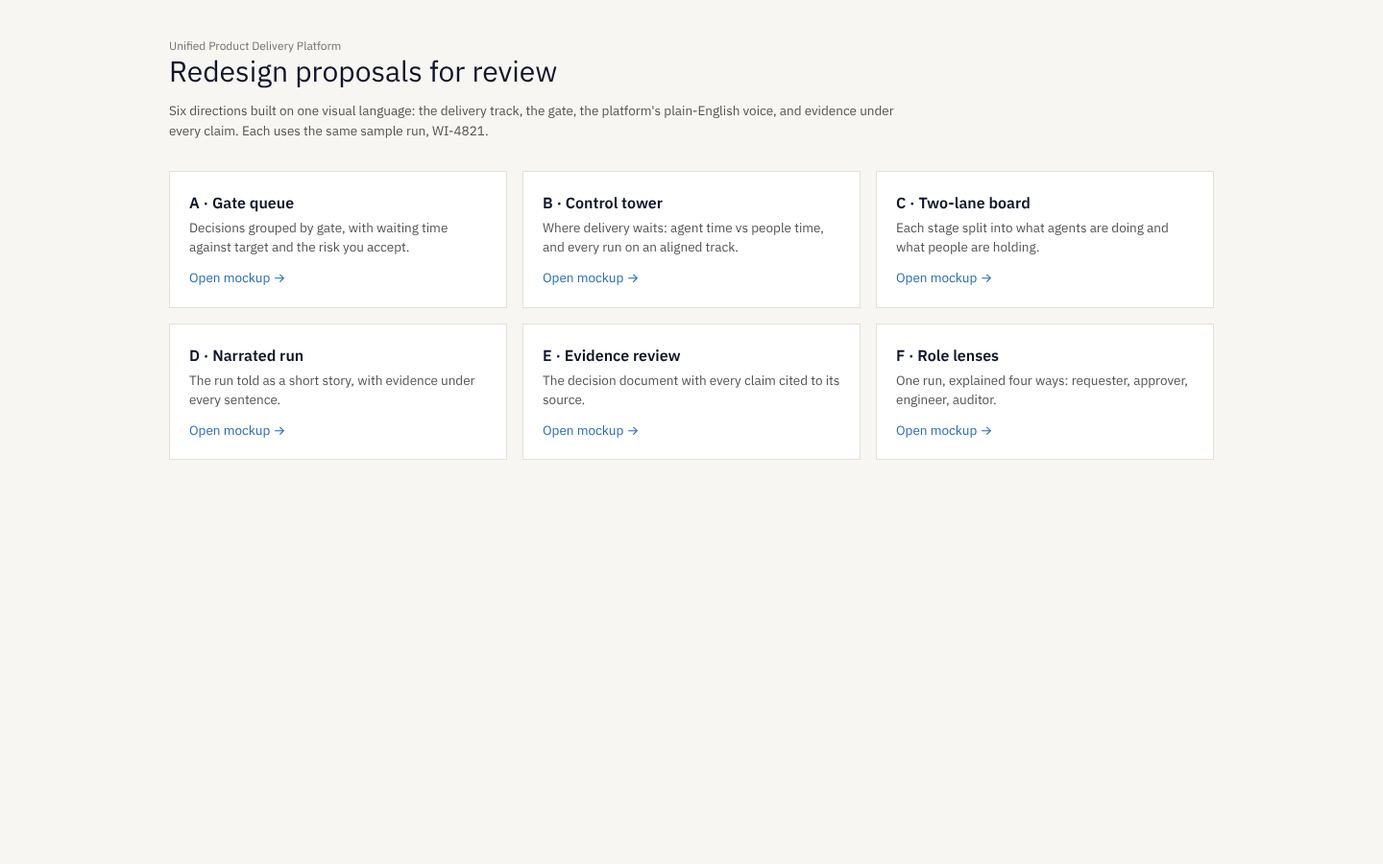
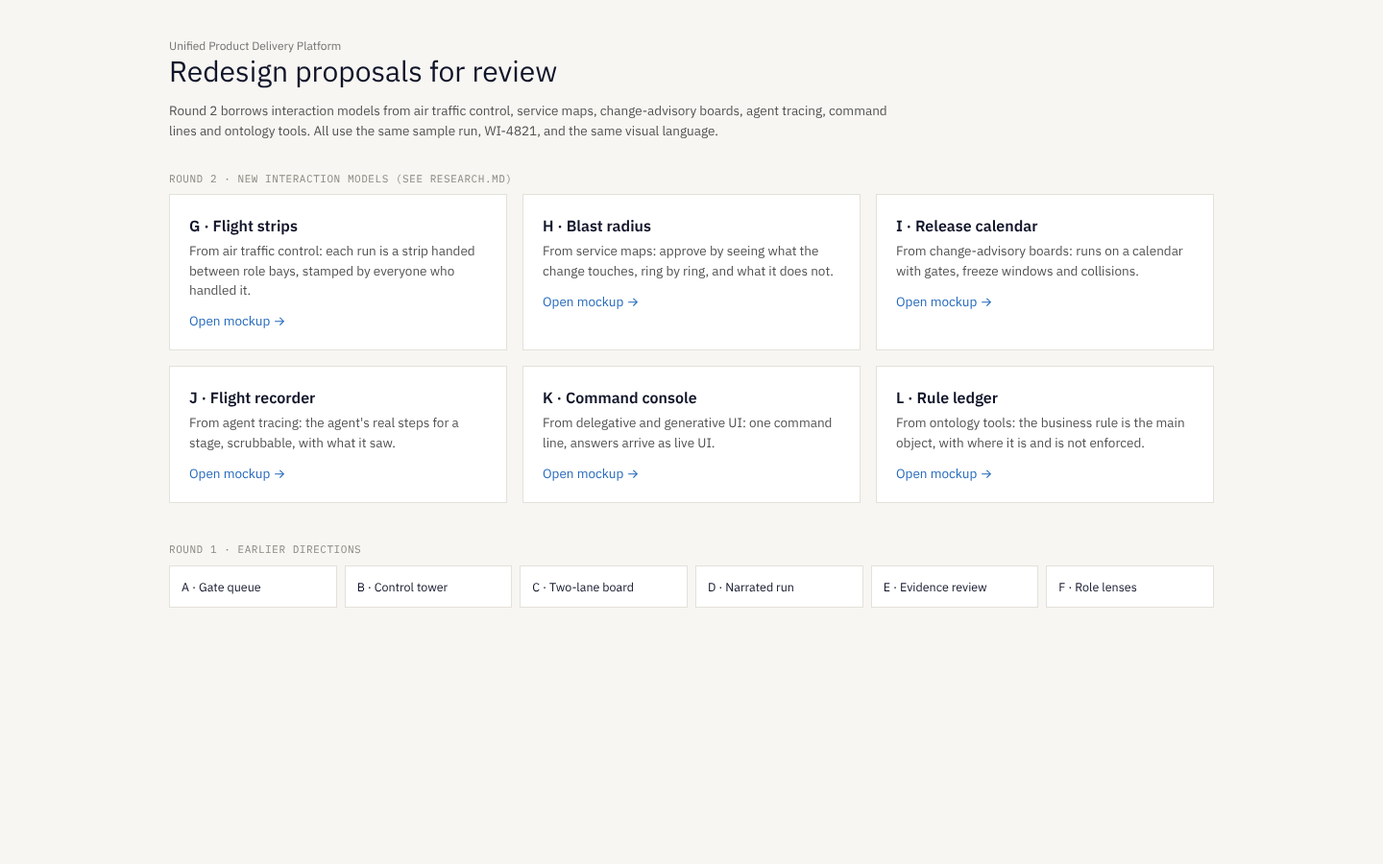
Add round 2 concepts from cross-industry research: strips, blast radius, release calendar, flight recorder, command console, rule ledger
Claude-Session: https://claude.ai/code/session_01M8VjWobWK2q9Jsgx3C2T2b

diff --git a/app/src/concepts2/ReleaseTrain.jsx b/app/src/concepts2/ReleaseTrain.jsx
@@ -1,0 +1,47 @@
+// I · Release train: runs on a calendar, gates as milestones, freeze windows and collisions.
+import { Button } from '@/components/ui/button';
+import { Shell } from '@/components/kit';
+import { GateGlyph } from '@/components/signature';
+import { cn } from '@/lib/utils';
+const DAYS = ['10','11','12','13','14','17','18','19','20','21','24','25','26','27','28','1','2','3','4','5'];
+const MON = i => i < 15 ? 'Nov' : 'Dec';
+const TODAY = 1;
+// [id, title, workspace, start, end, gates [[day, state, role]], bar colour, touches]
+const ROWS = [
+  ['WI-4821','Registered Amortization limit','Full Application',0,8,[[0,'passed','PO'],[1,'waiting','SA'],[4,'future','EL'],[6,'future','QL'],[8,'future','RM']],'validator'],
+  ['WI-4772','Fee schedule update','Full Application',-3,4,[[0,'passed','QL'],[3,'waiting','RM']],'validator'],
+  ['WI-4807','Advisor eligibility banner','Advisor Portal',-1,6,[[1,'waiting','EL'],[4,'future','QL'],[6,'future','RM']],''],
+  ['WI-4799','Statement export format','Client Services',0,12,[[1,'waiting','PO'],[5,'future','SA'],[12,'future','RM']],''],
+  ['WI-4790','Session timeout copy','Advisor Portal',-4,9,[[2,'future','QL'],[9,'future','RM']],'blocked'],
+  ['WI-4830','Advisor licence check','Advisor Portal',2,18,[[3,'future','SA'],[14,'future','RM']],'freeze'],
+];
+const COL = 52;
+export default function ReleaseTrain() {
+  return (
+    <Shell active="runs" title="Release calendar" actions={<Button variant="secondary">Export to CAB</Button>}>
+      <div className="flex flex-col gap-3 p-5">
+        <div className="flex gap-4 text-[12.5px] text-[#5d5c58]"><span className="flex items-center gap-1.5"><GateGlyph state="passed" className="size-3"/>gate passed</span><span className="flex items-center gap-1.5"><GateGlyph state="waiting" className="size-3"/>gate waiting</span><span className="flex items-center gap-1.5"><GateGlyph className="size-3"/>gate planned</span><span className="flex items-center gap-1.5"><span className="h-3 w-5 bg-[repeating-linear-gradient(45deg,#b42d38_0_2px,transparent_2px_6px)]"/>change freeze</span><span className="flex items-center gap-1.5"><span className="h-0.5 w-5 bg-red-700"/>collision</span></div>
+        <div className="overflow-x-auto border border-border bg-white">
+          <div className="relative" style={{ width: 260 + DAYS.length * COL }}>
+            <div className="sticky top-0 flex border-b border-border bg-[#efede6]"><div className="w-[260px] shrink-0 px-3 py-2 font-mono text-[11px] uppercase tracking-wider text-[#77756e]">Run</div>{DAYS.map((d,i)=><div key={i} style={{width:COL}} className={cn('shrink-0 border-l border-border py-1 text-center', i===TODAY && 'bg-brand text-white')}><div className="font-mono text-[10px] opacity-70">{MON(i)}</div><div className="font-semibold">{d}</div></div>)}</div>
+            <div className="pointer-events-none absolute top-0 bottom-0 bg-[repeating-linear-gradient(45deg,rgba(180,45,56,.12)_0_3px,transparent_3px_9px)]" style={{ left: 260 + 15*COL, width: 3*COL }}><span className="absolute top-12 left-1 bg-white px-1 text-[11px] font-semibold text-red-700">Month-end freeze</span></div>
+            <div className="pointer-events-none absolute top-0 bottom-0 w-0.5 bg-brand" style={{ left: 260 + TODAY*COL + COL/2 }}/>
+            {ROWS.map(([id,t,ws,s,e,g,flag])=>(
+              <div key={id} className="relative flex h-16 items-center border-b border-border">
+                <div className="w-[260px] shrink-0 px-3"><b className="block truncate font-semibold">{t}</b><span className="font-mono text-[11px] text-[#77756e]">{id} · {ws}</span></div>
+                <div className={cn('absolute h-2.5', flag==='blocked'?'bg-red-200':'bg-brand/25')} style={{ left: 260 + Math.max(s,0)*COL + 6, width: (e - Math.max(s,0))*COL }} />
+                {g.map(([d,st,r],i)=><span key={i} className="absolute flex flex-col items-center" style={{ left: 260 + d*COL + COL/2 - 10, top: 10 }}><GateGlyph state={st}/><span className={cn('font-mono text-[9.5px]', st==='waiting'?'font-semibold text-gate':'text-[#77756e]')}>{r}</span></span>)}
+                <span className="absolute font-mono text-[10.5px] text-[#5d5c58]" style={{ left: 260 + e*COL + COL - 4, top: 24 }}>▶ live</span>
+                {flag==='validator' && <span className="absolute left-[200px] top-1 bg-red-700 px-1 font-mono text-[10px] text-white">COLLISION</span>}
+                {flag==='freeze' && <span className="absolute bg-red-50 px-1.5 text-[11px] text-red-700" style={{ left: 260 + 15*COL + 4, top: 40 }}>release lands in freeze</span>}
+              </div>))}
+          </div>
+        </div>
+        <div className="grid grid-cols-2 gap-3">
+          <div className="border-l-4 border-red-700 bg-white p-3"><b>Collision:</b> WI-4772 and WI-4821 both change <span className="font-mono">amortizationValidator.js</span> this week. Release 4772 first, then rebase 4821.<div className="mt-2 flex gap-2"><Button size="sm">Sequence them</Button><Button size="sm" variant="ghost">View both diffs</Button></div></div>
+          <div className="border-l-4 border-gate bg-white p-3"><b>Freeze:</b> WI-4830 would release inside the month-end freeze (Dec 1–3). Earliest safe date: Dec 4.<div className="mt-2 flex gap-2"><Button size="sm" variant="outline">Move to Dec 4</Button><Button size="sm" variant="ghost">Request exception</Button></div></div>
+        </div>
+      </div>
+    </Shell>
+  );
+}

diff --git a/app/src/concepts2/RuleLedger.jsx b/app/src/concepts2/RuleLedger.jsx
@@ -1,0 +1,41 @@
+// L · Rule ledger: the business rule is the primary object, with where it is and is not enforced.
+import { Button } from '@/components/ui/button';
+import { Shell, Tag, Panel } from '@/components/kit';
+import { GateGlyph, Narration, Evidence } from '@/components/signature';
+import { Check, X, Minus } from 'lucide-react';
+const LAYERS = [
+  ['Product Selection form','Full Application UI','planned','WI-4821','In design'],
+  ['Shared amortization validator','Validation library','planned','WI-4821','In design'],
+  ['Pricing API','Server','no','—','No run covers this'],
+  ['Batch application import','Server','no','—','No run covers this'],
+  ['Advisor Portal quote tool','Advisor Portal','yes','WI-4511','Since Mar 2026'],
+  ['Product rules (source of truth)','Knowledge Fabric','yes','—','Documented, v4'],
+];
+const Ic = ({ s }) => s==='yes' ? <span className="grid size-5 place-items-center bg-done text-white"><Check className="size-3.5"/></span> : s==='no' ? <span className="grid size-5 place-items-center bg-red-700 text-white"><X className="size-3.5"/></span> : <span className="grid size-5 place-items-center border-2 border-gate text-gate"><Minus className="size-3"/></span>;
+export default function RuleLedger() {
+  return (
+    <Shell active="docs" title="Rules">
+      <div className="grid grid-cols-[240px_1fr]">
+        <nav className="border-r border-border bg-[#f1efe9] py-3" aria-label="Rules">
+          <div className="px-4 pb-1 font-mono text-[11px] uppercase tracking-wider text-[#8a887f]">Full Application · 48 rules</div>
+          {[['RA-MAX','Registered Amortization ≤ 310','part'],['RA-MIN','Amortization ≥ 5 years','yes'],['FEE-07','Fee table v7','yes'],['RATE-H','Rate hold ≤ 120 days','part'],['KYC-02','Two IDs before approval','yes'],['ADDR-1','Address change audited','no']].map(([id,t,s],i)=><a key={id} href="#" className={`flex items-center gap-2 px-4 py-2 ${i===0?'bg-white shadow-[inset_3px_0_0_var(--brand)]':''}`}><span className={`size-2 ${s==='yes'?'bg-done':s==='no'?'bg-red-700':'bg-gate'}`}/><span className="min-w-0"><span className="block font-mono text-[11px] text-[#77756e]">{id}</span><span className="block truncate text-[12.5px]">{t}</span></span></a>)}
+        </nav>
+        <section className="space-y-5 p-6">
+          <div className="flex items-start gap-4">
+            <div className="flex-1"><div className="font-mono text-[11px] uppercase tracking-wider text-[#8a887f]">Business rule · RA-MAX · owner Priya N.</div><h2 className="text-[26px] font-medium tracking-tight">Registered Amortization must be ≤ 310</h2></div>
+            <div className="border border-gate bg-gate-soft px-4 py-2 text-right"><div className="font-mono text-[11px] uppercase text-gate">Enforcement</div><div className="text-xl font-light">2 of 6 layers</div><div className="text-[12px] text-[#5d5c58]">2 more in progress</div></div>
+          </div>
+          <Narration>This rule is documented and enforced in the Advisor Portal. Run <b>WI-4821</b> will add it to the Full Application form. <span className="bg-red-50">Nothing yet stops the Pricing API or batch imports from accepting larger values.</span></Narration>
+          <Panel title="Where the rule is enforced">
+            <table className="w-full text-[13px]"><thead><tr className="border-b border-border text-left font-mono text-[11px] uppercase tracking-wider text-[#8a887f]"><th className="px-4 py-2 font-normal"></th><th className="font-normal">Layer</th><th className="font-normal">System</th><th className="font-normal">Run</th><th className="font-normal">Status</th><th/></tr></thead>
+            <tbody>{LAYERS.map(([l,s,st,r,n])=><tr key={l} className="border-b border-border last:border-0"><td className="px-4 py-2.5"><Ic s={st}/></td><td className="font-semibold">{l}</td><td className="text-[#5d5c58]">{s}</td><td className="font-mono text-[12px] text-brand">{r}</td><td className={st==='no'?'text-red-700':'text-[#5d5c58]'}>{n}</td><td className="pr-4 text-right">{st==='no' && <Button size="sm" variant="outline">Start run to close</Button>}</td></tr>)}</tbody></table>
+          </Panel>
+          <div className="grid grid-cols-2 gap-5">
+            <Panel title="History of this rule"><ol className="space-y-2.5 p-4 text-[12.5px]">{[['Nov 11','WI-4821 opened: enforce in Full Application form','waiting'],['Mar 2026','WI-4511 released: Advisor Portal quote tool','passed'],['Jan 2026','Rule raised from 300 to 310 (product rules v4)','passed'],['Aug 2025','Rule created by Product (v1)','passed']].map(([d,t,s])=><li key={d} className="grid grid-cols-[70px_16px_1fr] gap-2"><span className="font-mono text-[#8a887f]">{d}</span><GateGlyph state={s} className="size-3.5"/><span>{t}</span></li>)}</ol></Panel>
+            <Panel title="Related rules"><ul className="divide-y divide-border px-4 text-[12.5px]">{[['RA-MIN','Amortization ≥ 5 years','ok','enforced'],['RATE-H','Rate hold ≤ 120 days','warn','partial'],['PRD-SEL','Product eligibility by province','ok','enforced']].map(([a,b,t,s])=><li key={a} className="flex items-center justify-between py-2"><span><span className="font-mono text-[11px] text-[#77756e]">{a}</span> {b}</span><Tag tone={t}>{s}</Tag></li>)}</ul><Evidence className="mx-4 mb-3" items={['Knowledge Fabric v4','3 repositories scanned']}/></Panel>
+          </div>
+        </section>
+      </div>
+    </Shell>
+  );
+}

diff --git a/app/src/concepts2/FlightStrips.jsx b/app/src/concepts2/FlightStrips.jsx
@@ -1,0 +1,45 @@
+// G · Flight strips: each run is a strip handed between role bays. Stamps record who handled it.
+import { Button } from '@/components/ui/button';
+import { Shell } from '@/components/kit';
+import { GateGlyph } from '@/components/signature';
+import { cn } from '@/lib/utils';
+const WS = { FA:'#2469bc', AP:'#7a4fb5', CS:'#2f7d4f' };
+const BAYS = [
+  ['Product Owner', [{ id:'4799', ws:'CS', t:'Statement export format', rule:'CSV column order', st:'Specify', inbay:'1h', stamps:['RQ'], q:'2 questions' }]],
+  ['Solution Architect', [{ id:'4821', ws:'FA', t:'Registered Amortization limit', rule:'RA ≤ 310', st:'Design', inbay:'12m', stamps:['RQ','PO','PO'], mine:true, q:'Accept API gap?' }, { id:'4830', ws:'AP', t:'Advisor licence check', rule:'Licence active', st:'Design', inbay:'—', stamps:['RQ','PO'], next:true }]],
+  ['Engineering Lead', [{ id:'4807', ws:'AP', t:'Advisor eligibility banner', rule:'Eligibility ≥ 18', st:'Build', inbay:'3h', stamps:['RQ','PO','PO','SA'], q:'Completion report' }]],
+  ['Quality Lead', [{ id:'4790', ws:'AP', t:'Session timeout copy', rule:'Timeout 15 min', st:'Validate', inbay:'40m', stamps:['RQ','PO','PO','SA','EL','IL'], alert:'2 tests failed' }]],
+  ['Release Manager', [{ id:'4772', ws:'FA', t:'Fee schedule update', rule:'Fee table v7', st:'Release', inbay:'5h', stamps:['RQ','PO','PO','SA','EL','IL','QL'], q:'UAT sign-off' }]],
+];
+const AGENTS = [['4812','FA','Rate hold expiry','Build · writing tests'],['4815','CS','Address change audit','Impact · searching sources'],['4818','AP','Fund facts PDF link','Plan · drafting stories']];
+function Strip({ s }) {
+  return (
+    <article className={cn('grid grid-cols-[8px_74px_1fr_92px_118px] border bg-white text-[12.5px]', s.mine ? 'border-gate ring-2 ring-gate/30' : 'border-[#cfccc3]', s.next && 'opacity-60')}>
+      <span style={{ background: WS[s.ws] }} />
+      <div className="border-r border-dashed border-[#cfccc3] px-2 py-1.5"><div className="font-mono text-[15px] font-semibold leading-none">{s.id}</div><div className="mt-1 font-mono text-[10.5px] text-[#77756e]">{s.ws} · {s.st}</div></div>
+      <div className="min-w-0 border-r border-dashed border-[#cfccc3] px-2 py-1.5"><b className="block truncate font-semibold">{s.t}</b><div className="truncate font-mono text-[11px] text-[#5d5c58]">rule: {s.rule}</div></div>
+      <div className="border-r border-dashed border-[#cfccc3] px-2 py-1.5"><div className="font-mono text-[10.5px] text-[#77756e]">IN BAY</div><div className={cn('font-mono', s.alert && 'text-red-700')}>{s.alert || s.q || s.inbay}</div></div>
+      <div className="flex flex-wrap content-center gap-0.5 px-1.5">{s.stamps.map((x,i)=><span key={i} className="grid h-4 w-6 place-items-center border border-done font-mono text-[9.5px] text-done">{x}</span>)}{s.next && <span className="font-mono text-[10px] text-[#77756e]">inbound</span>}</div>
+    </article>
+  );
+}
+export default function FlightStrips() {
+  return (
+    <Shell active="runs" title="Strip board" actions={<Button>New strip</Button>}>
+      <div className="flex flex-col gap-4 p-5">
+        <section className="border border-dashed border-brand/50 bg-brand-soft/50 p-3">
+          <div className="mb-2 flex items-center gap-2 font-mono text-[11px] uppercase tracking-wider text-brand">Agents in flight · 3 <span className="normal-case tracking-normal text-[#5d5c58]">· strips land in a bay when a gate is reached</span></div>
+          <div className="grid grid-cols-3 gap-2">{AGENTS.map(([id,ws,t,s])=><div key={id} className="flex items-center gap-2 border border-brand/30 bg-white px-2 py-1.5"><span className="h-6 w-1.5" style={{background:WS[ws]}}/><span className="font-mono font-semibold">{id}</span><span className="truncate">{t}</span><span className="ml-auto flex items-center gap-1 text-[11.5px] text-brand"><span className="size-1.5 animate-pulse rounded-full bg-brand"/>{s}</span></div>)}</div>
+        </section>
+        <div className="grid grid-cols-2 gap-4">
+          {BAYS.map(([role, strips])=>(
+            <section key={role} className={cn('border bg-[#efede6]', role==='Solution Architect' ? 'col-span-2 border-gate' : 'border-border')}>
+              <header className="flex items-center gap-2 border-b border-border px-3 py-2"><GateGlyph state={strips.length ? 'waiting' : 'future'} className="size-3.5"/><b className="font-semibold">{role} bay</b>{role==='Solution Architect' && <span className="bg-gate px-1.5 text-[11px] font-semibold text-white">YOUR BAY</span>}<span className="ml-auto font-mono text-[11px] text-[#77756e]">{strips.filter(s=>!s.next).length} holding</span></header>
+              <div className="space-y-1.5 p-2">{strips.map(s=><Strip key={s.id} s={s}/>)}</div>
+              {role==='Solution Architect' && <div className="flex items-center gap-2 border-t border-border px-3 py-2"><Button size="sm">Approve 4821 → Engineering Lead bay</Button><Button size="sm" variant="outline">Hand back to Product Owner</Button><span className="ml-auto text-[12px] text-[#77756e]">Stamps: RQ requester · PO product owner · SA architect · EL eng lead · IL integration · QL quality</span></div>}
+            </section>))}
+        </div>
+      </div>
+    </Shell>
+  );
+}

diff --git a/app/src/concepts2/BlastRadius.jsx b/app/src/concepts2/BlastRadius.jsx
@@ -1,0 +1,39 @@
+// H · Blast radius: approve by seeing what the change touches, ring by ring, and what it does not.
+import { Button } from '@/components/ui/button';
+import { Shell, Panel } from '@/components/kit';
+import { Track, GateGlyph, Evidence } from '@/components/signature';
+const R1 = [['ProductSelection.jsx','edit'],['amortizationValidator.js','edit'],['messages.en.json','add'],['selection.test.js','add'],['validator.test.js','edit']];
+const R2 = [['Full Application UI','touched'],['Product Selection flow','touched'],['Shared validation lib','touched']];
+const R3 = [['Pricing API','untouched'],['Advisor Portal','untouched'],['Client Services','untouched'],['Batch import','untouched']];
+const pos = (i, n, r, off = 0) => { const a = (i / n) * Math.PI * 2 + off - Math.PI / 2; return [380 + r * Math.cos(a), 300 + r * Math.sin(a)]; };
+export default function BlastRadius() {
+  return (
+    <Shell active="runs" title="Impact review · WI-4821">
+      <div className="border-b border-border bg-white px-6 py-3"><Track s="dddw"/></div>
+      <div className="grid flex-1 grid-cols-[1fr_380px]">
+        <figure className="relative m-0 overflow-hidden" aria-label="Change impact map">
+          <svg viewBox="0 0 760 600" className="h-full max-h-[calc(100vh-130px)] w-full">
+            {[125,215,288].map((r,i)=><circle key={r} cx="380" cy="300" r={r} fill="none" stroke={i===2?'#cfccc3':'#dedbd2'} strokeDasharray={i===2?'4 5':''}/>)}
+            {[['Files changed',125],['Areas touched',215],['Not changed',288]].map(([l,r])=><text key={l} x="380" y={300-r+14} textAnchor="middle" className="fill-[#8a887f] font-mono text-[10px] uppercase tracking-wider">{l}</text>)}
+            {R1.map((n,i)=>{const[x,y]=pos(i,R1.length,125,.63);return <line key={n[0]} x1="380" y1="300" x2={x} y2={y} stroke="#2469bc" strokeOpacity=".35"/>})}
+            {R2.map((n,i)=>{const[x,y]=pos(i,R2.length,215,1.1);const[a,b]=pos(i,R1.length,125,.63);return <line key={n[0]} x1={a} y1={b} x2={x} y2={y} stroke="#b7791f" strokeOpacity=".4"/>})}
+            <g><rect x="335" y="280" width="90" height="40" fill="#101429"/><text x="380" y="297" textAnchor="middle" className="fill-white text-[12px] font-semibold">RA ≤ 310</text><text x="380" y="312" textAnchor="middle" className="fill-white/60 font-mono text-[9.5px]">business rule</text></g>
+            {R1.map((n,i)=>{const[x,y]=pos(i,R1.length,125,.63);return <g key={n[0]}><circle cx={x} cy={y} r="6" fill="#2469bc"/><text x={x} y={y+18} textAnchor="middle" className="fill-[#101429] font-mono text-[10.5px]">{n[0]}</text><text x={x} y={y-10} textAnchor="middle" className="fill-[#2469bc] font-mono text-[9px] uppercase">{n[1]}</text></g>})}
+            {R2.map((n,i)=>{const[x,y]=pos(i,R2.length,215,1.1);return <g key={n[0]}><rect x={x-6} y={y-6} width="12" height="12" fill="#b7791f"/><text x={x} y={y+20} textAnchor="middle" className="fill-[#101429] text-[11.5px] font-semibold">{n[0]}</text></g>})}
+            {R3.map((n,i)=>{const[x,y]=pos(i,R3.length,288,.75);return <g key={n[0]}><rect x={x-6} y={y-6} width="12" height="12" fill="#f7f6f2" stroke="#9a978e" strokeDasharray="2 2"/><text x={x} y={y+20} textAnchor="middle" className="fill-[#77756e] text-[11.5px]">{n[0]}</text></g>})}
+            <g><line x1="380" y1="300" x2={pos(0,4,288,.75)[0]} y2={pos(0,4,288,.75)[1]} stroke="#b42d38" strokeDasharray="3 4"/></g>
+          </svg>
+          <figcaption className="absolute top-4 left-6 max-w-sm border-l-4 border-red-700 bg-white p-3 text-[12.5px]"><b>Gap:</b> the rule also applies to the <b>Pricing API</b>, but this change does not reach it. Direct API calls can still submit values above 310.</figcaption>
+        </figure>
+        <aside className="flex flex-col gap-4 border-l border-border bg-white p-5">
+          <div className="flex items-center gap-2"><GateGlyph state="waiting"/><b className="font-semibold">Solution Architect gate</b></div>
+          <div className="grid grid-cols-3 border border-border text-center">{[['5','files'],['3','areas'],['4','untouched']].map(([n,l])=><div key={l} className="border-r border-border p-2 last:border-0"><div className="text-2xl font-light">{n}</div><div className="text-[12px] text-[#77756e]">{l}</div></div>)}</div>
+          <Panel title="Changes"><ul className="space-y-1 p-3 text-[12.5px]"><li>Product Selection blocks values above 310</li><li>Shared validator gains a maximum</li><li>1 new message string, 2 test files</li></ul></Panel>
+          <Panel title="Does not change"><ul className="space-y-1 p-3 text-[12.5px] text-[#5d5c58]"><li>Pricing API validation <span className="text-red-700">(gap)</span></li><li>Advisor Portal, Client Services</li><li>Batch import of applications</li></ul></Panel>
+          <Evidence items={['Impact scan of 1 repo','Baseline build green','Call graph depth 3']}/>
+          <div className="mt-auto flex flex-col gap-2"><Button>Approve with API gap accepted</Button><Button variant="outline">Widen scope to include API</Button></div>
+        </aside>
+      </div>
+    </Shell>
+  );
+}

diff --git a/app/src/concepts2/FlightRecorder.jsx b/app/src/concepts2/FlightRecorder.jsx
@@ -1,0 +1,51 @@
+// J · Flight recorder: the agent's real trace for a stage, scrubbable, with what it saw at each moment.
+import { Shell, Tag } from '@/components/kit';
+import { Track, Evidence } from '@/components/signature';
+import { cn } from '@/lib/utils';
+const T = 14; // minutes
+const SPANS = [
+  [0,'Find the right knowledge',0,3.2,'search','Knowledge Fabric · 14 queries'],
+  [1,'Search product rules',0.2,1.4,'tool','12 hits · 4 kept'],
+  [1,'Search previous ADRs',1.5,2.9,'tool','ADR-0151 reused'],
+  [0,'Check the information',3.2,4.6,'check','3 facts verified'],
+  [0,'Prepare the result',4.6,9.1,'llm','ADR draft · 2,140 tokens'],
+  [0,'Review quality',9.1,10.4,'check','1 issue: AC-3 not referenced'],
+  [0,'Correct issues',10.4,12.2,'fix','Added AC-3 link · re-checked'],
+  [0,'Save evidence',12.2,13.1,'save','adr-0173.md · hash 9f2c…'],
+  [0,'Prepare next step',13.1,13.8,'save','Gate opened for Solution Architect'],
+];
+const C = { search:'bg-brand/70', tool:'bg-brand/40', check:'bg-done/70', llm:'bg-ink/80', fix:'bg-gate', save:'bg-[#8a887f]' };
+const AT = 10.9;
+export default function FlightRecorder() {
+  return (
+    <Shell active="runs" title="Flight recorder · WI-4821">
+      <div className="border-b border-border bg-white px-6 py-3"><Track s="dddw"/></div>
+      <div className="flex items-center gap-2 border-b border-border bg-white px-6 py-2">{['Plan','Specify','Impact','Design'].map((s,i)=><button key={s} className={cn('px-3 py-1', i===3 ? 'bg-ink text-white' : 'text-[#5d5c58] hover:bg-black/5')}>{s}</button>)}<span className="ml-auto font-mono text-[12px] text-[#5d5c58]">Design · 13m 48s · 9 steps · 6,410 tokens · $0.21 · 1 self-correction</span></div>
+      <div className="grid flex-1 grid-cols-[1fr_380px]">
+        <section className="p-6">
+          <div className="relative ml-[220px] mb-2 flex justify-between font-mono text-[10.5px] text-[#8a887f]">{[0,2,4,6,8,10,12,14].map(m=><span key={m}>{m}m</span>)}</div>
+          <div className="relative">
+            {SPANS.map(([d,l,s,e,k,note],i)=>(
+              <div key={i} className="flex h-9 items-center border-b border-border/60">
+                <div className="w-[220px] shrink-0 truncate pr-2 text-[12.5px]" style={{ paddingLeft: d*18 }}>{d ? '└ ' : ''}{l}</div>
+                <div className="relative h-full flex-1"><span className={cn('absolute top-2.5 h-4', C[k])} style={{ left: (s/T*100)+'%', width: ((e-s)/T*100)+'%' }}/><span className={cn('absolute top-2.5 whitespace-nowrap font-mono text-[10.5px] text-[#5d5c58]', e/T > .6 ? 'pr-1 text-right' : 'pl-1')} style={e/T > .6 ? { right: (100 - s/T*100)+'%' } : { left: (e/T*100)+'%' }}>{note}</span></div>
+              </div>))}
+            <div className="pointer-events-none absolute top-[-28px] bottom-0 w-0.5 bg-red-700" style={{ left: `calc(220px + (100% - 220px) * ${AT/T})` }}><span className="absolute -top-1 left-1 bg-red-700 px-1 font-mono text-[10px] text-white">10:54</span></div>
+          </div>
+          <input type="range" min="0" max="14" step="0.1" defaultValue={AT} aria-label="Scrub trace" className="mt-4 ml-[220px] w-[calc(100%-220px)] accent-[#b42d38]"/>
+          <p className="mt-3 font-serif text-[15px] italic text-[#5d5c58]">The 7-step checklist from the current console, replaced by what the agent actually did and for how long.</p>
+        </section>
+        <aside className="space-y-4 border-l border-border bg-white p-5">
+          <div><div className="font-mono text-[11px] uppercase tracking-wider text-[#8a887f]">At 10m 54s</div><b className="text-[15px]">Correct issues</b> <Tag tone="warn">self-correction</Tag></div>
+          <div><div className="mb-1 font-mono text-[11px] uppercase tracking-wider text-[#8a887f]">What the agent saw</div><pre className="whitespace-pre-wrap border border-border bg-paper p-3 font-mono text-[11.5px] leading-5">{`quality_review:
+  result: fail
+  rule: every decision cites an acceptance criterion
+  missing: AC-3 (block above max, show reason)`}</pre></div>
+          <div><div className="mb-1 font-mono text-[11px] uppercase tracking-wider text-[#8a887f]">What it did</div><p className="font-serif text-[15px]">Added the AC-3 reference to the Decision section and ran the quality review again. It passed at 12m 10s.</p></div>
+          <Evidence items={['spec-v3 · AC-3','Quality rule QR-12','Diff +2 lines']}/>
+          <div className="flex gap-2 pt-2"><button className="border border-border px-3 py-1.5 hover:bg-paper">Show prompt</button><button className="border border-border px-3 py-1.5 hover:bg-paper">Show raw output</button></div>
+        </aside>
+      </div>
+    </Shell>
+  );
+}

diff --git a/app/src/App.jsx b/app/src/App.jsx
@@ -6,6 +6,21 @@ import Timeline from '@/concepts/Timeline';
 import Workbench from '@/concepts/Workbench';
 import RoleLenses from '@/concepts/RoleLenses';
 import SplitText from '@/components/SplitText';
+import FlightStrips from '@/concepts2/FlightStrips';
+import BlastRadius from '@/concepts2/BlastRadius';
+import ReleaseTrain from '@/concepts2/ReleaseTrain';
+import FlightRecorder from '@/concepts2/FlightRecorder';
+import CommandConsole from '@/concepts2/CommandConsole';
+import RuleLedger from '@/concepts2/RuleLedger';
+
+export const ROUND2 = [
+  ['strips','G · Flight strips','From air traffic control: each run is a strip handed between role bays, stamped by everyone who handled it.',FlightStrips],
+  ['radius','H · Blast radius','From service maps: approve by seeing what the change touches, ring by ring, and what it does not.',BlastRadius],
+  ['train','I · Release calendar','From change-advisory boards: runs on a calendar with gates, freeze windows and collisions.',ReleaseTrain],
+  ['recorder','J · Flight recorder','From agent tracing: the agent\'s real steps for a stage, scrubbable, with what it saw.',FlightRecorder],
+  ['console','K · Command console','From delegative and generative UI: one command line, answers arrive as live UI.',CommandConsole],
+  ['rules','L · Rule ledger','From ontology tools: the business rule is the main object, with where it is and is not enforced.',RuleLedger],
+];
 
 export const CONCEPTS = [
   ['inbox','A · Gate queue','Decisions grouped by gate, with waiting time against target and the risk you accept.',InboxConcept],
@@ -22,16 +37,21 @@ function Gallery() {
     <div className="mx-auto max-w-6xl px-8 py-10 text-ink">
       <div className="text-xs text-neutral-500">Unified Product Delivery Platform</div>
       <SplitText text="Redesign proposals for review" tag="h1" splitType="words" effect="fade" delay={60} duration={0.6} textAlign="left" trigger="load" className="text-3xl font-light" />
-      <p className="mt-2 max-w-3xl text-neutral-600">Six directions built on one visual language: the delivery track, the gate, the platform's plain-English voice, and evidence under every claim. Each uses the same sample run, WI-4821.</p>
-      <div className="mt-8 grid grid-cols-3 gap-4">{CONCEPTS.map(([k,t,d])=>(
-        <a key={k} href={`#${k}`} className="block border bg-white p-5 hover:border-brand border-border"><b className="block text-base font-semibold">{t}</b><p className="mt-1 text-neutral-600">{d}</p><span className="mt-3 inline-block text-primary">Open mockup →</span></a>))}</div>
+      <p className="mt-2 max-w-3xl text-neutral-600">Round 2 borrows interaction models from air traffic control, service maps, change-advisory boards, agent tracing, command lines and ontology tools. All use the same sample run, WI-4821, and the same visual language.</p>
+      <h2 className="mt-8 font-mono text-[11px] uppercase tracking-wider text-[#8a887f]">Round 2 · new interaction models (see RESEARCH.md)</h2>
+      <div className="mt-2 grid grid-cols-3 gap-4">{ROUND2.map(([k,t,d])=>(
+        <a key={k} href={`#${k}`} className="block border border-border bg-white p-5 hover:border-brand"><b className="block text-base font-semibold">{t}</b><p className="mt-1 text-neutral-600">{d}</p><span className="mt-3 inline-block text-primary">Open mockup →</span></a>))}</div>
+      <h2 className="mt-10 font-mono text-[11px] uppercase tracking-wider text-[#8a887f]">Round 1 · earlier directions</h2>
+      <div className="mt-2 grid grid-cols-6 gap-2">{CONCEPTS.map(([k,t])=>(
+        <a key={k} href={`#${k}`} className="block border border-border bg-white p-3 text-[12.5px] hover:border-brand">{t}</a>))}</div>
     </div>
   );
 }
 export default function App() {
   const h = useHash();
-  const C = CONCEPTS.find(c=>c[0]===h)?.[3];
+  const ALL = [...ROUND2, ...CONCEPTS];
+  const C = ALL.find(c=>c[0]===h)?.[3];
   if (!C) return <Gallery/>;
   return <><C/><nav aria-label="Concepts" className="fixed bottom-4 left-1/2 z-50 flex -translate-x-1/2 gap-1 border bg-neutral-900 p-1 text-xs text-white">
-    <a href="#" className="px-2.5 py-1.5 hover:bg-neutral-700">All</a>{CONCEPTS.map(([k,t])=><a key={k} href={`#${k}`} className={`px-2.5 py-1.5 hover:bg-neutral-700 ${k===h?'bg-primary':''}`}>{t.split(' · ')[0]}</a>)}</nav></>;
+    <a href="#" className="px-2.5 py-1.5 hover:bg-neutral-700">All</a>{ALL.map(([k,t])=><a key={k} href={`#${k}`} className={`px-2.5 py-1.5 hover:bg-neutral-700 ${k===h?'bg-primary':''}`}>{t.split(' · ')[0]}</a>)}</nav></>;
 }

diff --git a/app/src/concepts2/CommandConsole.jsx b/app/src/concepts2/CommandConsole.jsx
@@ -1,0 +1,40 @@
+// K · Command console: delegate in one line; the platform answers with live UI, not pages.
+import { Button } from '@/components/ui/button';
+import { Shell, Tag, Kbd } from '@/components/kit';
+import { Track, GateGlyph, Narration, Evidence } from '@/components/signature';
+const Cmd = ({ children, t }) => <div className="flex items-baseline gap-3 font-mono text-[13px]"><span className="text-brand">›</span><span className="text-ink">{children}</span><span className="ml-auto text-[11px] text-[#8a887f]">{t}</span></div>;
+export default function CommandConsole() {
+  return (
+    <Shell rail={false} title="Console">
+      <div className="mx-auto flex w-full max-w-[860px] flex-1 flex-col gap-6 px-6 py-8">
+        <section className="space-y-3">
+          <Cmd t="09:12">what needs me today</Cmd>
+          <div className="border border-border bg-white">
+            {[['Solution Architect','Approve design · WI-4821','12m','dddw'],['Product Owner','2 questions · WI-4799','1h','ddw'],['Engineering Lead','Completion report · WI-4807','3h','ddddw']].map(([g,t,a,s],i)=><div key={i} className="grid grid-cols-[22px_1fr_200px_44px] items-center gap-3 border-b border-border px-4 py-2.5 last:border-0"><GateGlyph state="waiting" className="size-3.5"/><div><b>{t}</b><div className="text-[12px] text-[#77756e]">{g} gate</div></div><Track s={s} size="sm"/><span className="text-right font-mono text-[12px]">{a}</span></div>)}
+          </div>
+        </section>
+        <section className="space-y-3">
+          <Cmd t="09:14">approve 4821 design</Cmd>
+          <div className="border-l-4 border-gate bg-white p-4">
+            <Narration className="text-[16px]">Before I approve: this design leaves the <b>Pricing API</b> able to accept values above 310. Do you accept that gap?</Narration>
+            <div className="mt-3 flex gap-2"><Button size="sm">Yes, approve with gap <Kbd>Y</Kbd></Button><Button size="sm" variant="outline">No, widen scope to API <Kbd>N</Kbd></Button><Button size="sm" variant="ghost">Show ADR-0173</Button></div>
+          </div>
+        </section>
+        <section className="space-y-3">
+          <Cmd t="09:15">why is 4790 failing</Cmd>
+          <div className="border border-border bg-white p-4">
+            <Narration className="text-[16px]">Two regression tests expect the old 20-minute timeout. The change set it to 15 minutes, as the spec requires, so the <b>tests are out of date, not the code</b>.</Narration>
+            <table className="mt-3 w-full text-[12.5px]"><tbody>{[['session.spec.js › warns at 18 min','expected 18, got 13'],['logout.spec.js › auto logout','expected 20, got 15']].map(([a,b])=><tr key={a} className="border-t border-border"><td className="py-1.5 font-mono">{a}</td><td className="text-red-700">{b}</td></tr>)}</tbody></table>
+            <Evidence className="mt-3" items={['spec-v2 · AC-1 (15 min)','CI run #5521','Agent retried 1 of 3']}/>
+            <div className="mt-3 flex gap-2"><Button size="sm">Let the agent update the tests</Button><Button size="sm" variant="outline">Assign to Jon R.</Button></div>
+          </div>
+        </section>
+        <div className="h-4"/>
+        <div className="sticky bottom-16 mt-auto border-2 border-ink bg-white shadow-[0_8px_0_#101429]">
+          <div className="flex items-center gap-3 px-4 py-3 font-mono text-[14px]"><span className="text-brand">›</span><span>start: block advisors from saving a Registered Amortization above 310 on the API too<span className="ml-0.5 inline-block h-4 w-2 animate-pulse bg-ink align-middle"/></span></div>
+          <div className="flex flex-wrap gap-1.5 border-t border-border px-4 py-2 text-[12px]">{['approve …','why is … failing','start: …','show trace …','who is holding …','what changed in rule …'].map(s=><span key={s} className="border border-border bg-paper px-2 py-0.5 font-mono">{s}</span>)}<span className="ml-auto text-[#8a887f]"><Kbd>↵</Kbd> run · <Kbd>Tab</Kbd> complete</span></div>
+        </div>
+      </div>
+    </Shell>
+  );
+}

diff --git a/app/RESEARCH.md b/app/RESEARCH.md
@@ -1,0 +1,26 @@
+# Research round 2: ideas from outside delivery dashboards
+
+Round 1 (gate queue, control tower, board, timeline, workbench, role lenses) used familiar SaaS patterns. Round 2 borrows interaction models from other industries and tools, so the client sees genuinely different directions.
+
+| # | Concept | Borrowed from | The idea we take |
+|---|---|---|---|
+| G | Flight strips | Air traffic control electronic flight strips | Work is a *strip* handed between controller bays (roles). The strip keeps the stamps of everyone who handled it, so handoff history is visible at a glance. |
+| H | Blast radius | Service maps (Grafana, Coralogix, BigPanda) | Approve a change by looking at what it touches, ring by ring, and, just as importantly, what it does **not** touch. |
+| I | Release train | ServiceNow CAB workbench, conflict calendar | Plot runs on a calendar with gates as milestones, freeze windows and collisions (two runs changing the same component). |
+| J | Flight recorder | Langfuse / LangSmith trace views | Replace the 7-step activity checklist with the agent's real trace: a waterfall of steps you can scrub, with what the agent saw at each moment. |
+| K | Command console | Delegative / generative UI (AG-UI, A2UI), Raycast | One keyboard command line. You delegate ("approve", "why is it failing", "start …") and the platform answers with live UI cards, not pages. |
+| L | Rule ledger | Palantir Foundry object views (ontology) | Make the **business rule** the primary object, not the run: where it is enforced, where it is not, and every run that changed it. |
+
+## Notes and caveats
+- Most sources are vendor docs or practitioner write-ups, not peer-reviewed research.
+- Flight-strip findings come from MIT (Doble & Hansman) and NTNU work: strips record control actions and make handoffs observable; layouts are configured per working position.
+- Agent-observability vendors argue for a readable transcript by default with the span tree one click away.
+
+## Sources
+- ATC strips: https://ntrs.nasa.gov/api/citations/20030068998/downloads/20030068998.pdf · https://dspace.mit.edu/handle/1721.1/35252 · https://www.ntnu.no/documents/10401/1286462006/mats.ruste.holen.pdf/9cf03a4f-ec78-4f9d-9e8a-55ab980bce17 · https://www.copperchase.co.uk/electronic-flight-strips/
+- Service maps / blast radius: https://grafana.com/docs/grafana-cloud/knowledge-graph/use-cases/explore-dependencies/ · https://coralogix.com/docs/user-guides/apm-v2/features/service-map/ · https://www.bigpanda.io/glossary/service-dependency-mapping/ · https://www.doit.com/changelog/cloud-diagrams-update-enhancing-investigate-mode-with-search-and-second-order-de
+- CAB / conflict calendar: https://www.servicenow.com/docs/r/it-service-management/change-management/cab-workbench.html · https://www.servicenow.com/docs/r/MlbQAgTiiiMOLOw9T36wJg/J1Wr3wTEjguRwiE87EnJfQ
+- Agent traces: https://langfuse.com/docs/observability/features/agent-graphs · https://langfuse.com/changelog/2026-08-28-responsive-timeline · https://laminar.sh/blog/2026-01-29-laminar-vs-langfuse-vs-langsmith-llm-observability-compared
+- Agent UI paradigms: https://www.aiacceleratorinstitute.com/nobody-wants-another-chatbot-7-interface-architectures-worth-building/ · https://www.marktechpost.com/2026/01/29/beyond-the-chatbox-generative-ui-ag-ui-and-the-stack-behind-agent-driven-interfaces/ · https://www.maviklabs.com/blog/agentic-ui-patterns-2026/
+- Ontology / object views: https://www.palantir.com/docs/foundry/ontology/why-ontology · https://palantir.com/docs/foundry/platform-overview/overview/
+- Review queues: https://graphite.dev/docs/review-pull-requests
